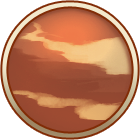
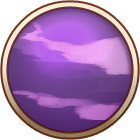
替换资源

diff --git a/client/cocos2d-x-2.2.1/projects/Magpie/Resources/IOS/YY/loginScene.js b/client/cocos2d-x-2.2.1/projects/Magpie/Resources/IOS/YY/loginScene.js
@@ -17,19 +17,29 @@ var LoginScene = cc.Scene.extend({
     _toLayer: null,
 
     onEnter: function () {
-        cc.log("LoginScene onEnter");
+        cc.log("YY LoginScene onEnter");
 
         this._super();
 
-        if (this._toLayer) {
-            this.switchLayer(this._toLayer);
-        } else {
-            this.switchLayer(LoginLayer);
+        var effect = cc.BuilderReader.load(main_scene_image.uiEffect106,this);
+        effect.setPosition(gameFit.GAME_MIDPOINT);
 
-            if (!lz.TARGET_PLATFORM_IS_BROWSER) {
-                NoticeLayer.pop();
+        effect.animationManager.setCompletedAnimationCallback(this, function () {
+            cc.log("#############");
+
+            if (this._toLayer) {
+                this.switchLayer(this._toLayer);
+            } else {
+                this.switchLayer(LoginLayer);
+
+                if (!lz.TARGET_PLATFORM_IS_BROWSER) {
+                    NoticeLayer.pop();
+                }
             }
-        }
+        });
+
+        this.addChild(effect);
+
 
         lz.um.beginLogPageView("登录场景");
     },

diff --git a/client/cocos2d-x-2.2.1/projects/Magpie/Resources/IOS/YY/main_binding.js b/client/cocos2d-x-2.2.1/projects/Magpie/Resources/IOS/YY/main_binding.js
@@ -101,7 +101,7 @@ var appFiles = [
     'src/controls/dialog.js',
     'src/controls/slideLayer.js',
 
-    'src/view/loginModule/loginScene.js',
+    'loginScene.js',
     'loginBgLayer.js',
     'src/view/loginModule/updateLayer.js',
     'loginLayer.js',
